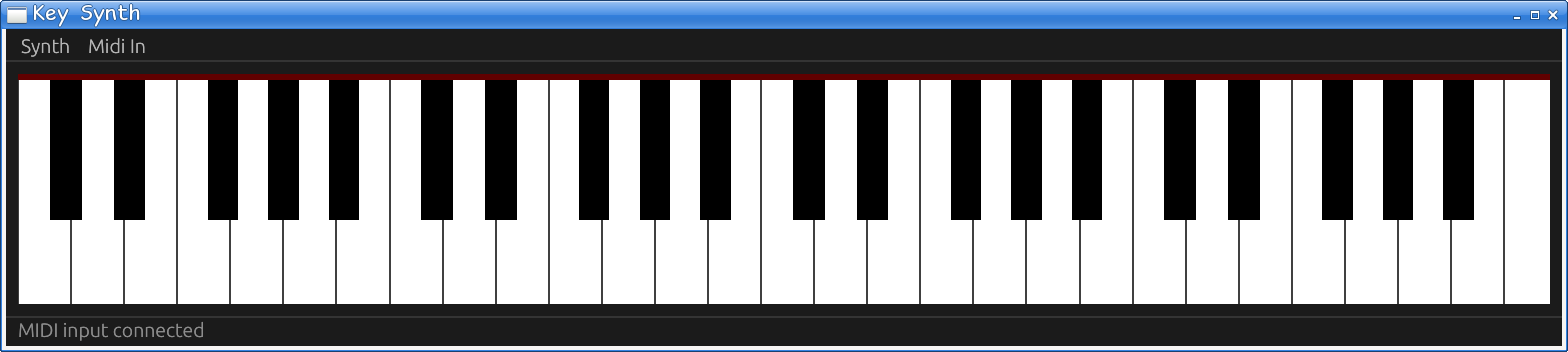
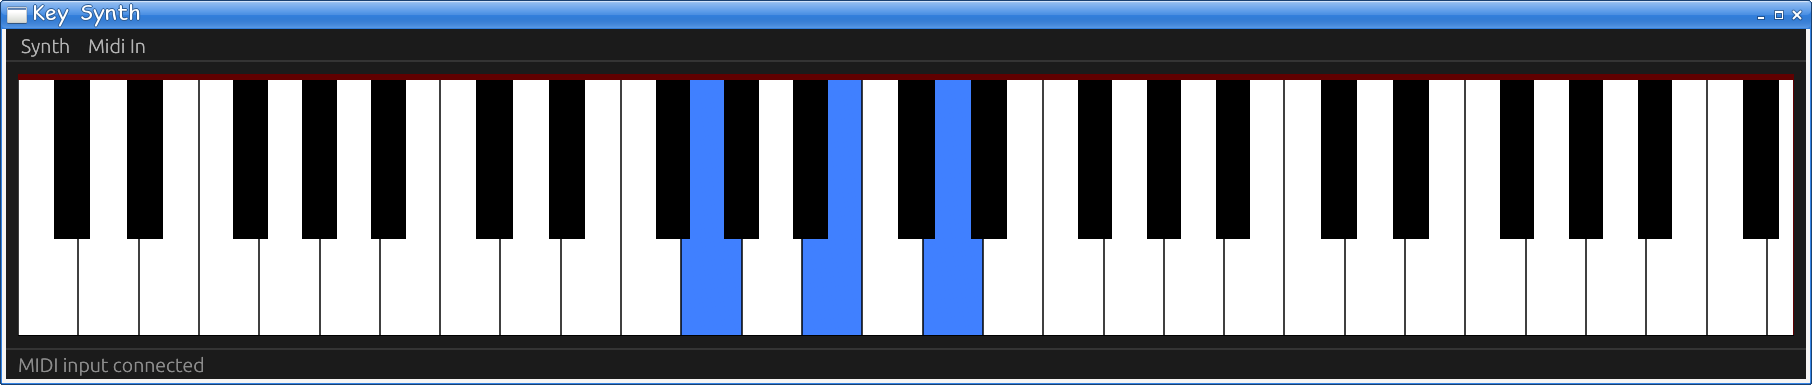
Update README and screenshot

diff --git a/README.md b/README.md
@@ -1,11 +1,14 @@
 # raven-game-editor
 
 Small keyboard synth written in Rust using
-[midir](https://crates.io/crates/midir/) and
-[egui](https://crates.io/crates/egui). There's no sound sound
-implemented yet, it currently only reads MIDI events from a selected
-MIDI input and shows the pressed keys.
+[midir](https://crates.io/crates/midir) to read MIDI input,
+[cpal](https://crates.io/crates/cpal) to output sound and
+[egui](https://crates.io/crates/egui) for the UI.
 
-Here's a screenshot of the main window:
+The synth is currently very basic, synthesizing only pure sine waves
+of the appropriate frequency for the pressed key, with up to 8 keys
+playing at the same time.
+
+Here's a screenshot of the main window showing a G major playing:
 
 ![Screenshot](doc/main-window.png)
